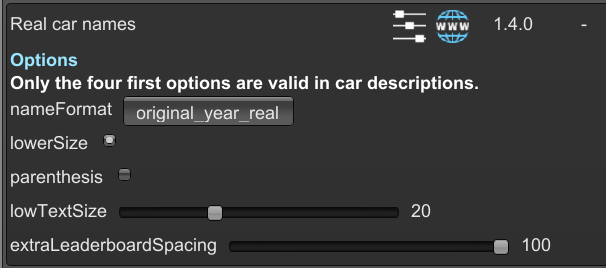
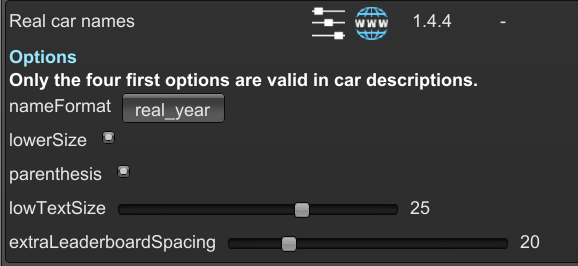
Update screenshots and infos

Changed region(s): [[0.0, 0.0, 1.0, 1.0], [0.8097, 0.0602, 0.9031, 0.1203]]

diff --git a/Readme.md b/Readme.md
@@ -29,6 +29,11 @@ Adjust settings to select what name format you want.
 "Real" is the real name of the car.\
 "Year" is the year of the model.
 
+"lowerSize" enables the extra text to be in lower size.\
+"parenthesis" enables the extra text to be in parenthesis.\
+"lowTextSize" is the size of the text in lower size.\
+"extraLeaderboardSpacing" is the extra padding given to columns in leaderboards.
+
 If the mod is disabled, the regular game names are displayed by default.
 
 ## Disclaimer
